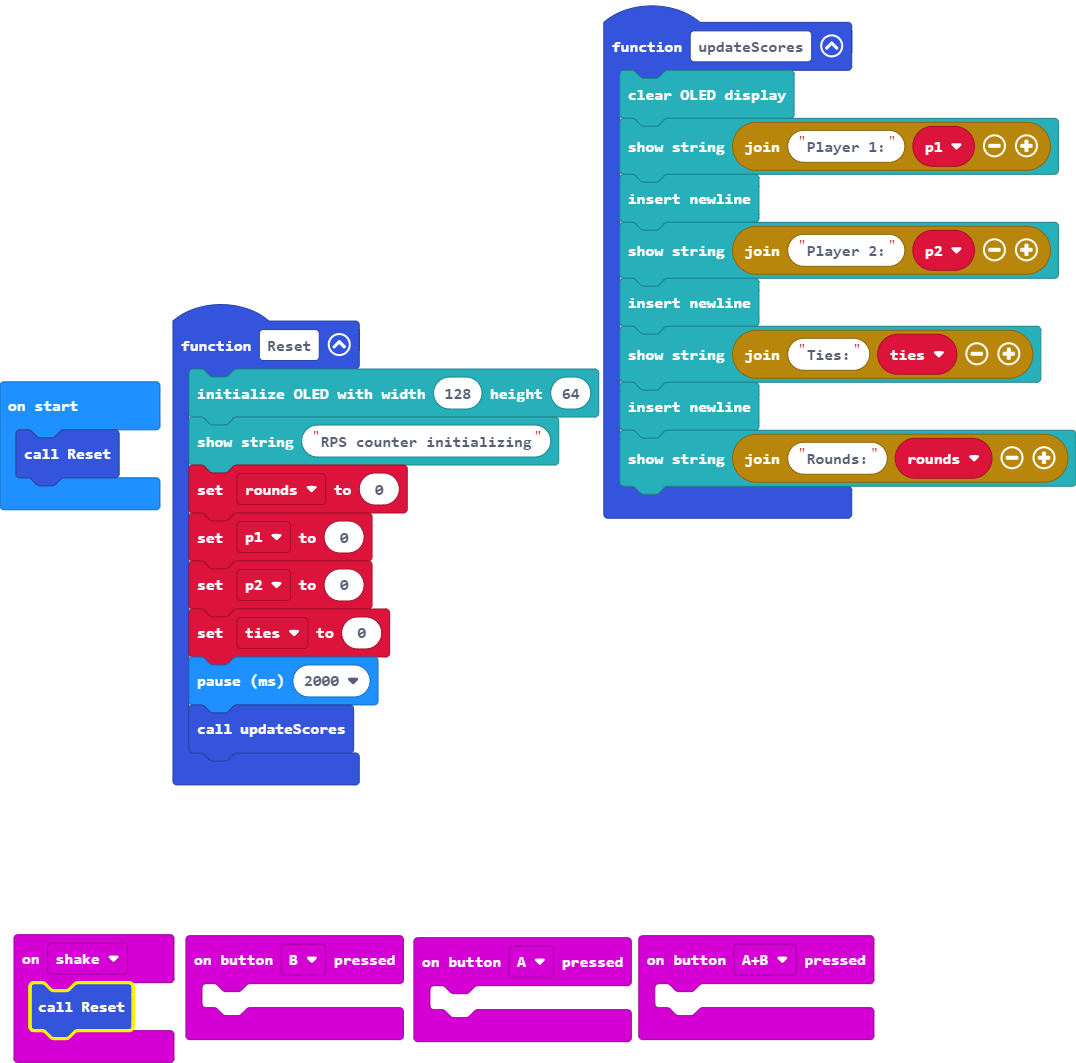
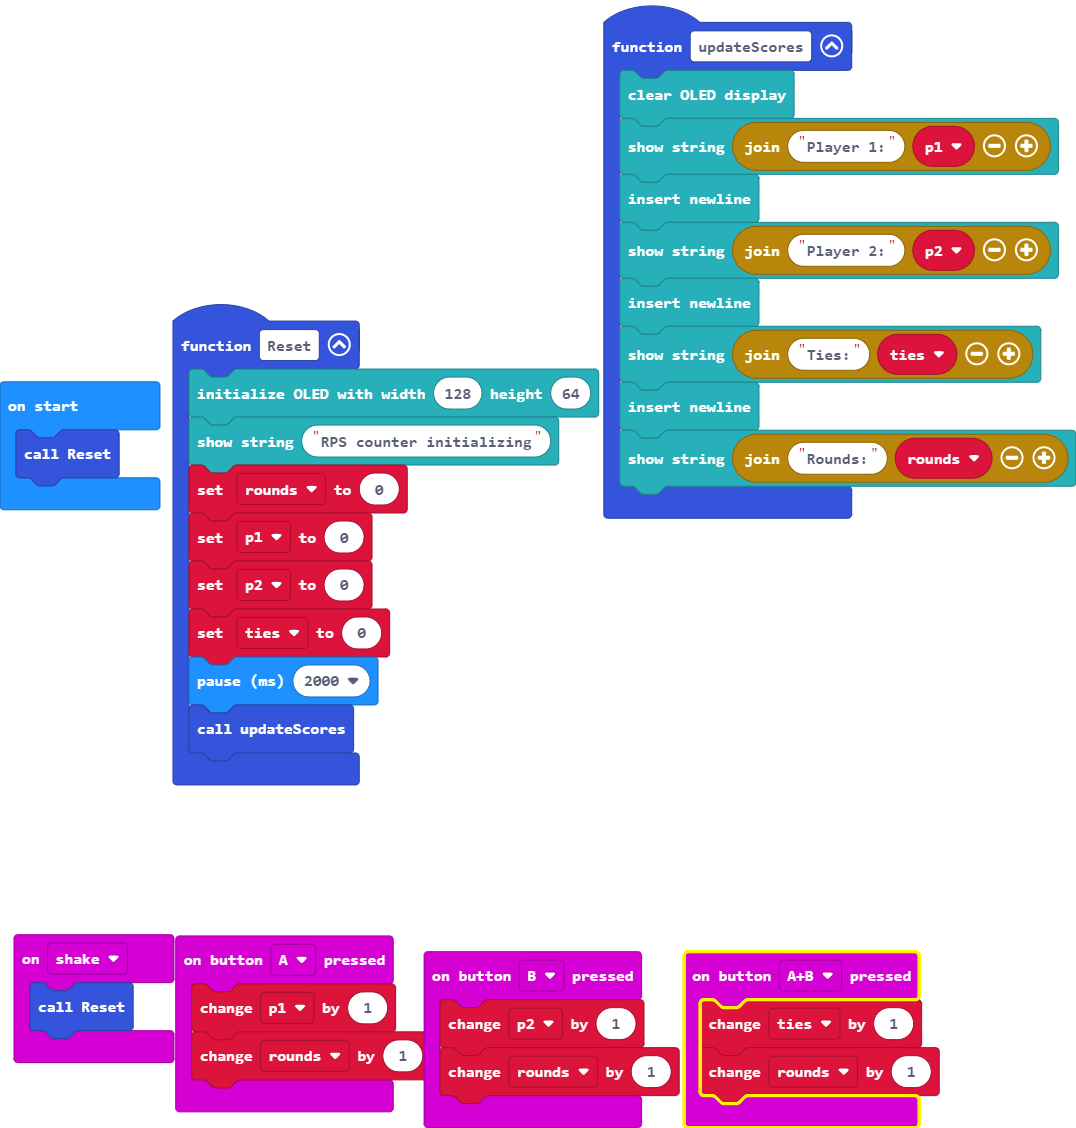
Update main.blocks, main.ts

Changed region(s): [[0.0, 0.0, 1.0, 0.7451], [0.0, 0.8071, 0.8894, 1.0]]

diff --git a/main.ts b/main.ts
@@ -1,11 +1,14 @@
 input.onButtonPressed(Button.A, function () {
-	
+    p1 += 1
+    rounds += 1
 })
 input.onButtonPressed(Button.AB, function () {
-	
+    ties += 1
+    rounds += 1
 })
 input.onButtonPressed(Button.B, function () {
-	
+    p2 += 1
+    rounds += 1
 })
 input.onGesture(Gesture.Shake, function () {
     Reset()
@@ -30,8 +33,8 @@ function updateScores () {
     OLED.newLine()
     OLED.writeStringNewLine("Rounds:" + rounds)
 }
-let ties = 0
 let p2 = 0
-let p1 = 0
+let ties = 0
 let rounds = 0
+let p1 = 0
 Reset()
